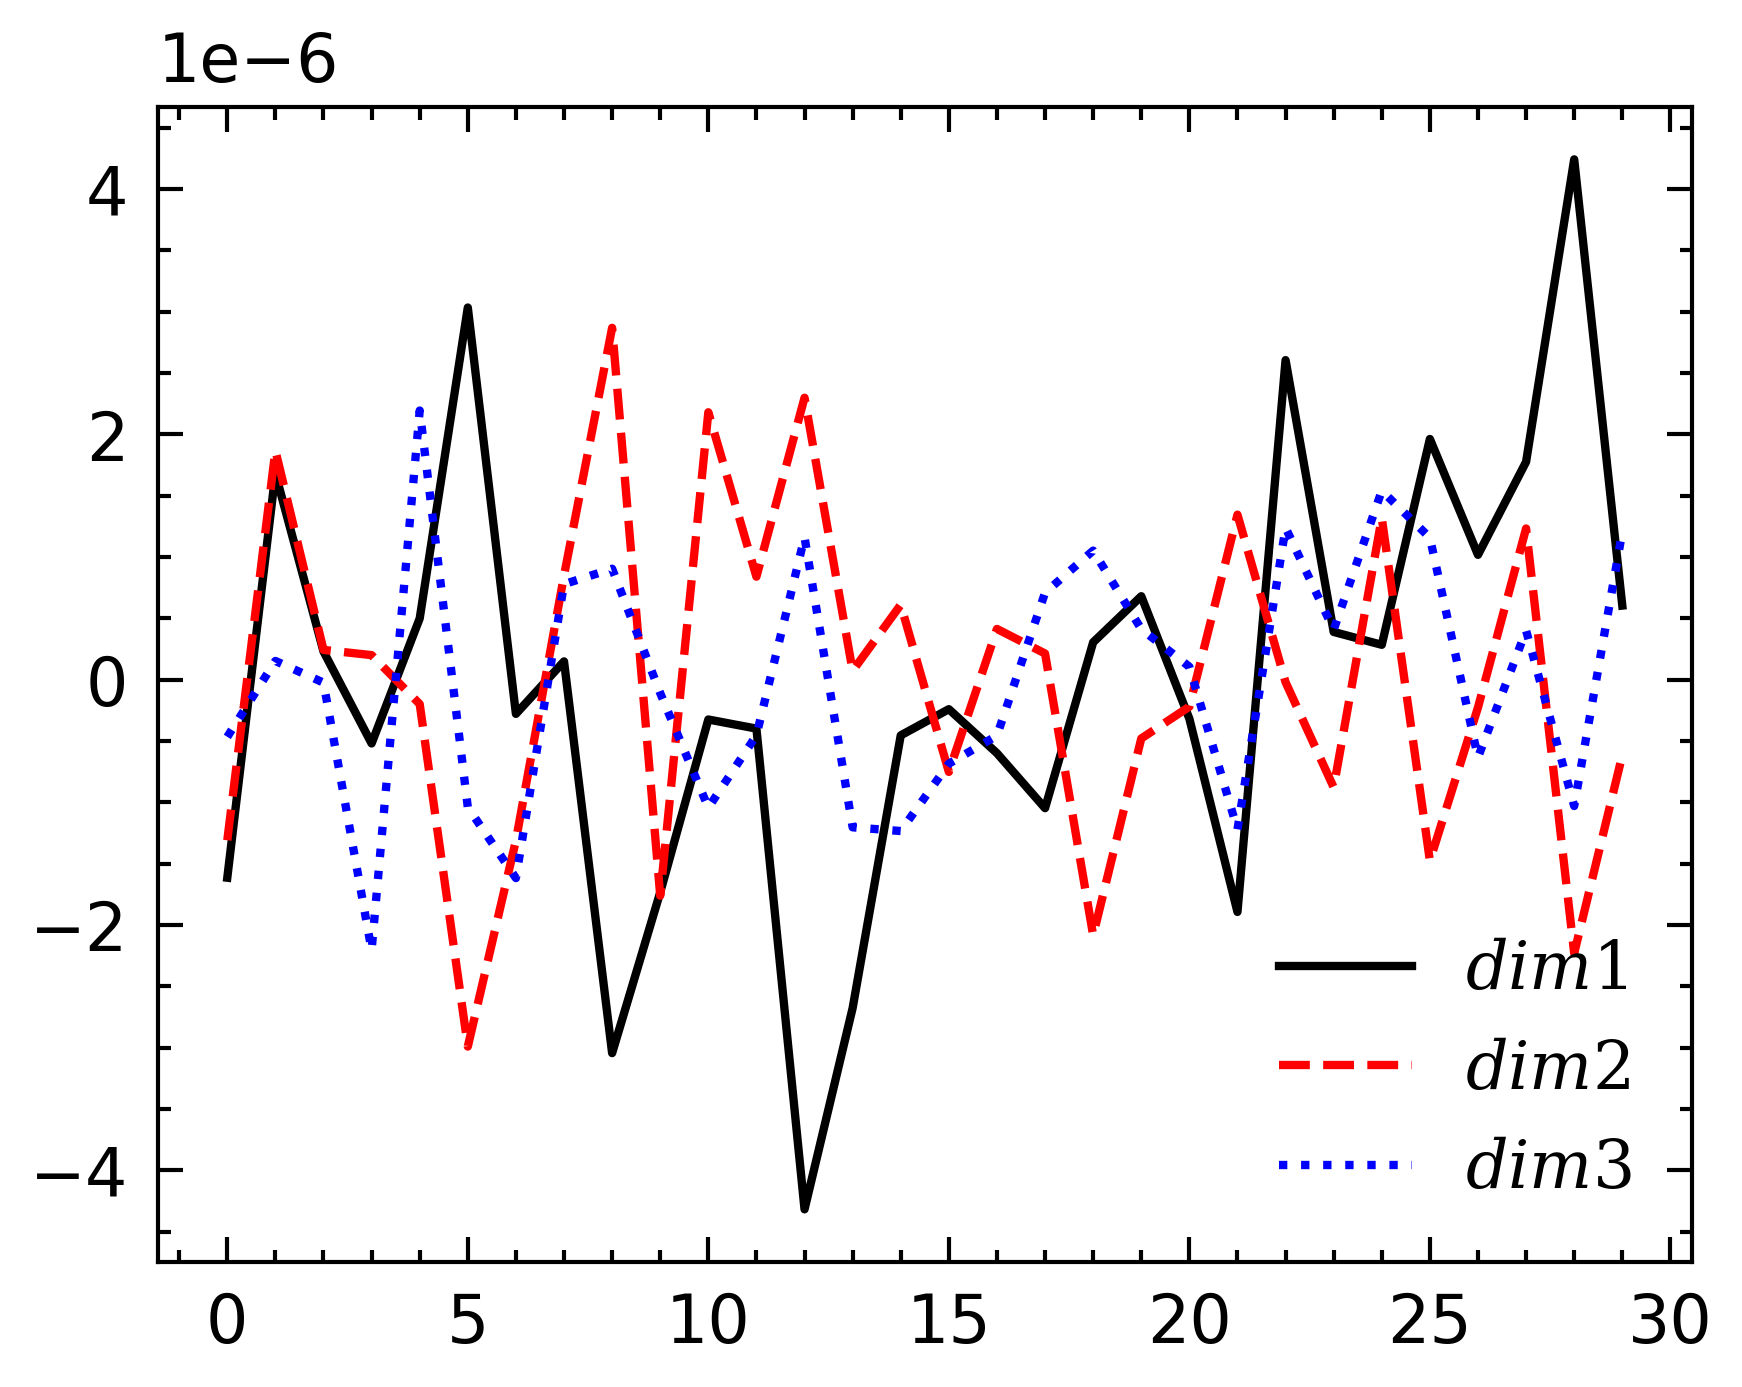
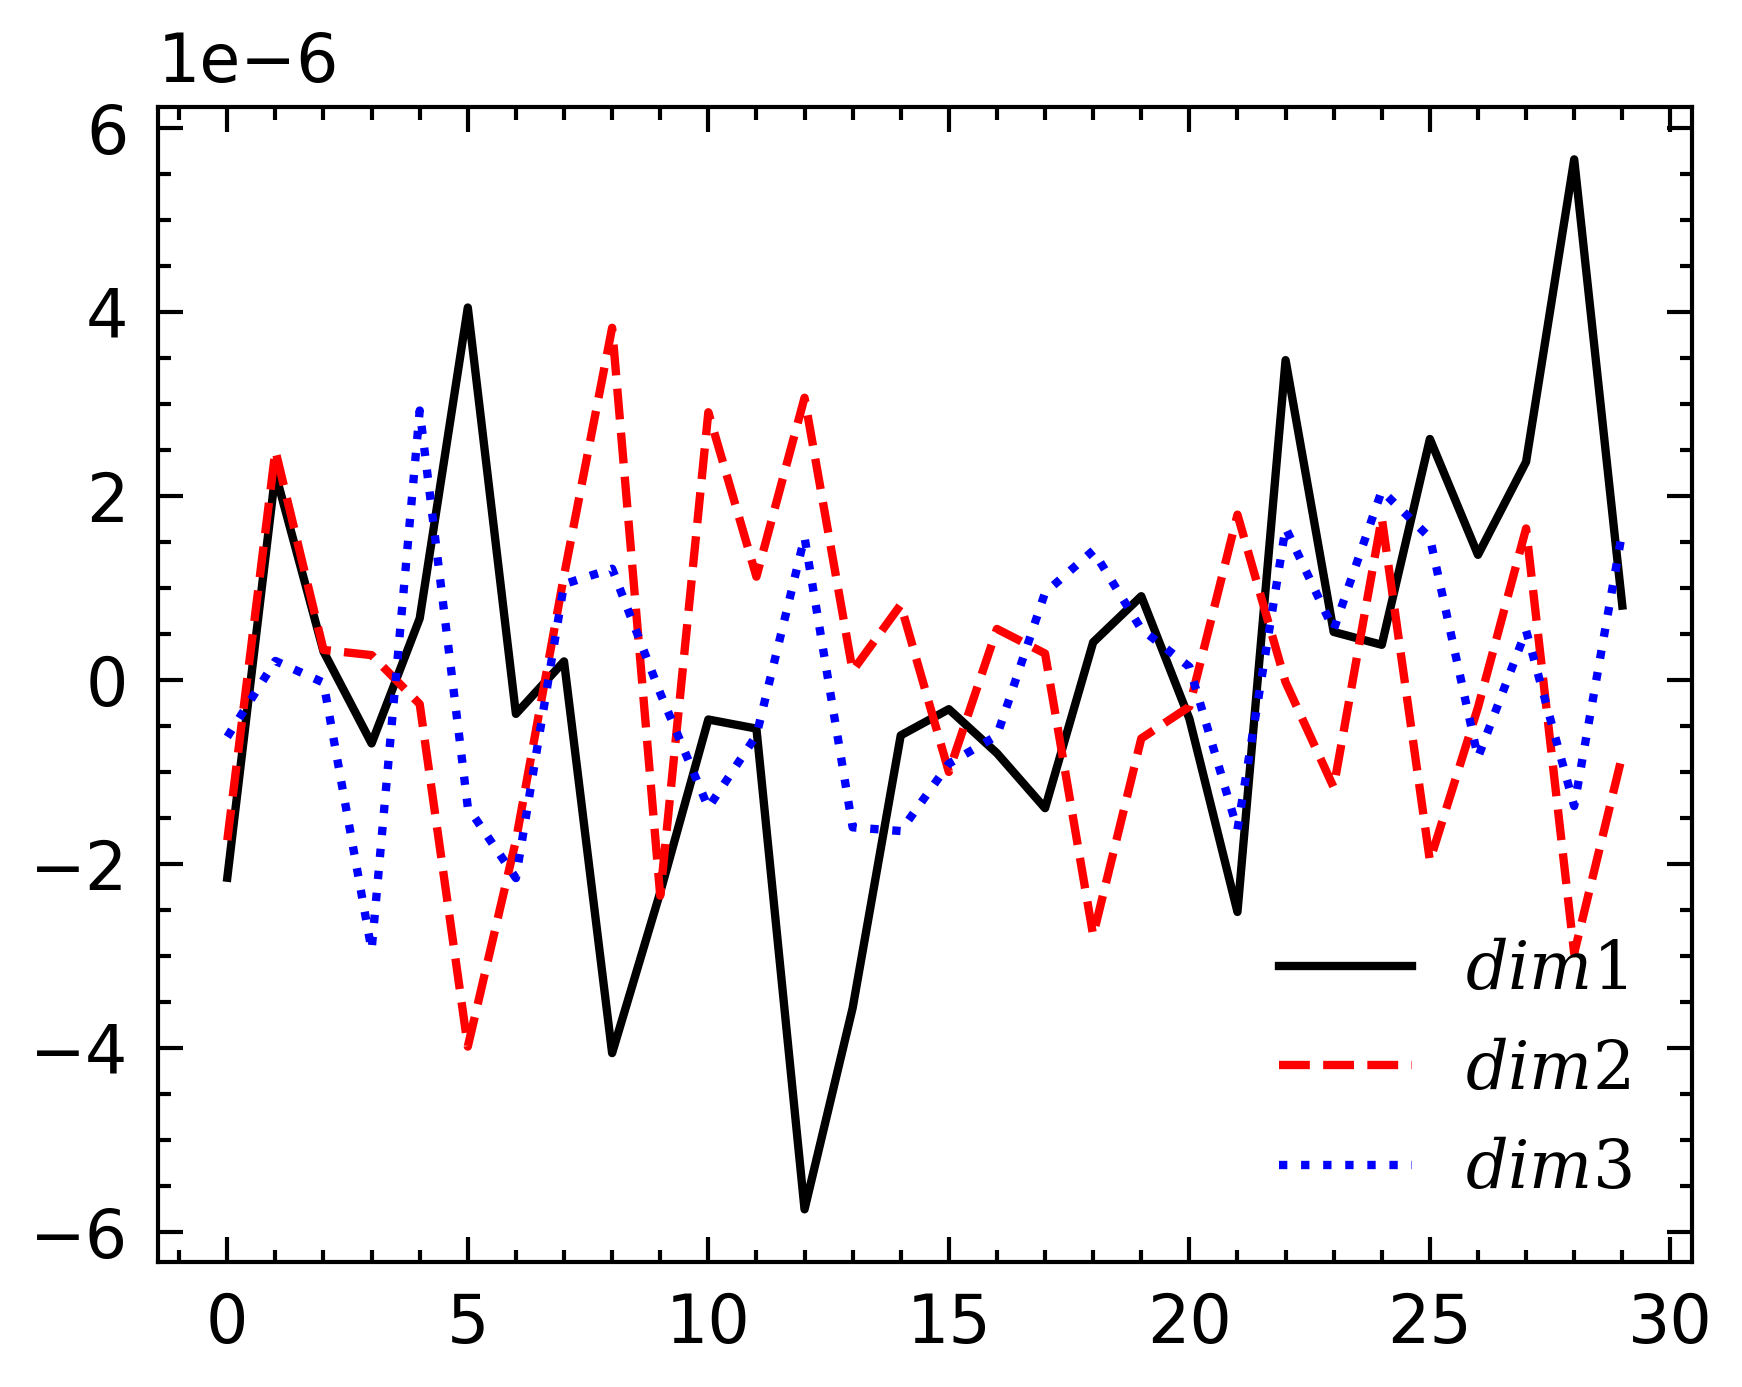
f

diff --git a/AresMainPy/AresMainPyTest/aresMain.py b/AresMainPy/AresMainPyTest/aresMain.py
@@ -36,16 +36,18 @@ for i in range(Parameters.nssp):
     print(">>>>pos at ",i,"\n")
     print(posStore[:,:,i])
 #!Plot>>>>>>>>>>>>>
+# plt.figure()
+# plt.plot(posStore[0,:,2]-posStore[0,:,0])
+# plt.plot(posStore[1,:,2]-posStore[1,:,0])
+# plt.plot(posStore[2,:,2]-posStore[2,:,0])
+# plt.legend([r"$dim1$",r"$dim2$",r"$dim3$"])
+# plt.savefig('./Figure/ionStep3_2.png')
+
 plt.figure()
 plt.plot(posStore[0,:,1]-posStore[0,:,0])
 plt.plot(posStore[1,:,1]-posStore[1,:,0])
 plt.plot(posStore[2,:,1]-posStore[2,:,0])
 plt.legend([r"$dim1$",r"$dim2$",r"$dim3$"])
 plt.savefig('./Figure/ionStep2_1.png')
-plt.figure()
-plt.plot(posStore[0,:,2]-posStore[0,:,1])
-plt.plot(posStore[1,:,2]-posStore[1,:,1])
-plt.plot(posStore[2,:,2]-posStore[2,:,1])
-plt.legend([r"$dim1$",r"$dim2$",r"$dim3$"])
-plt.savefig('./Figure/ionStep3_2.png')
+
 print(">>>>>>>>>>>>>>>End Wrapped AresMain<<<<<<<<<<<<<<<")
